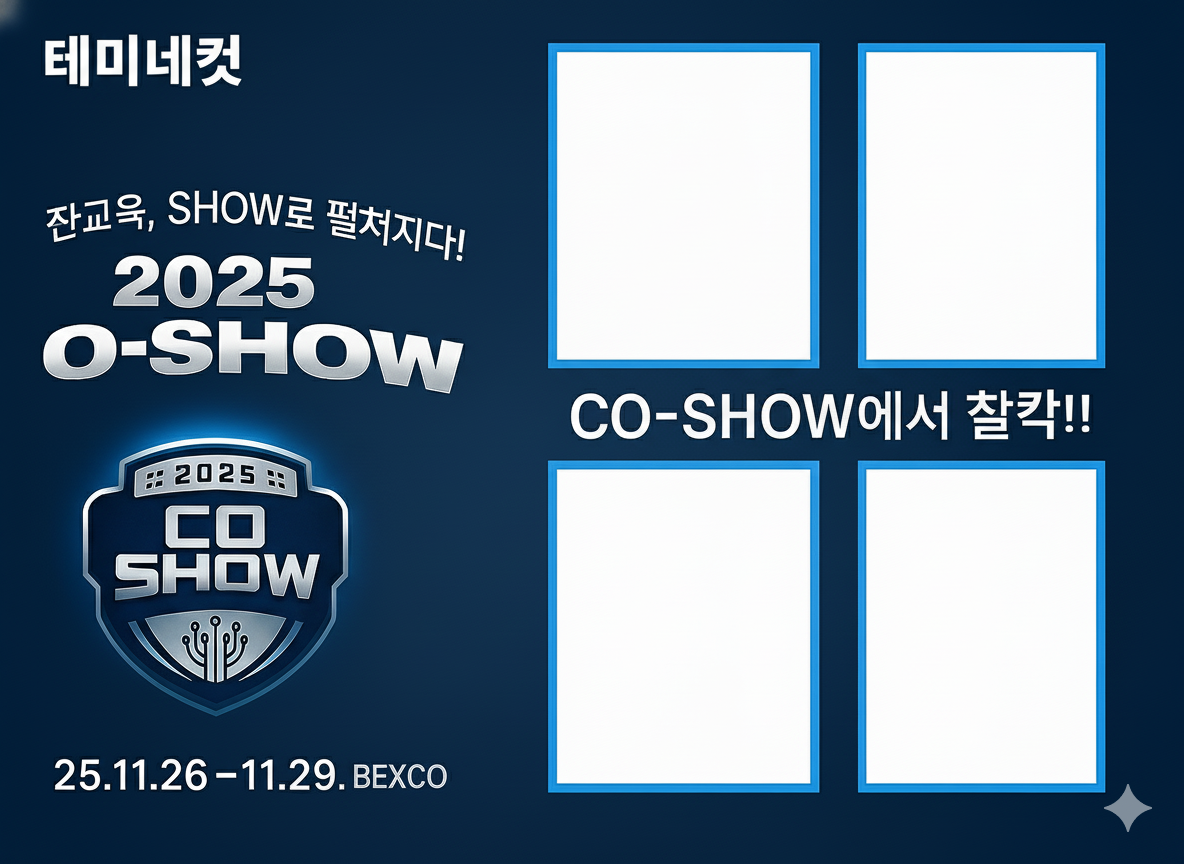
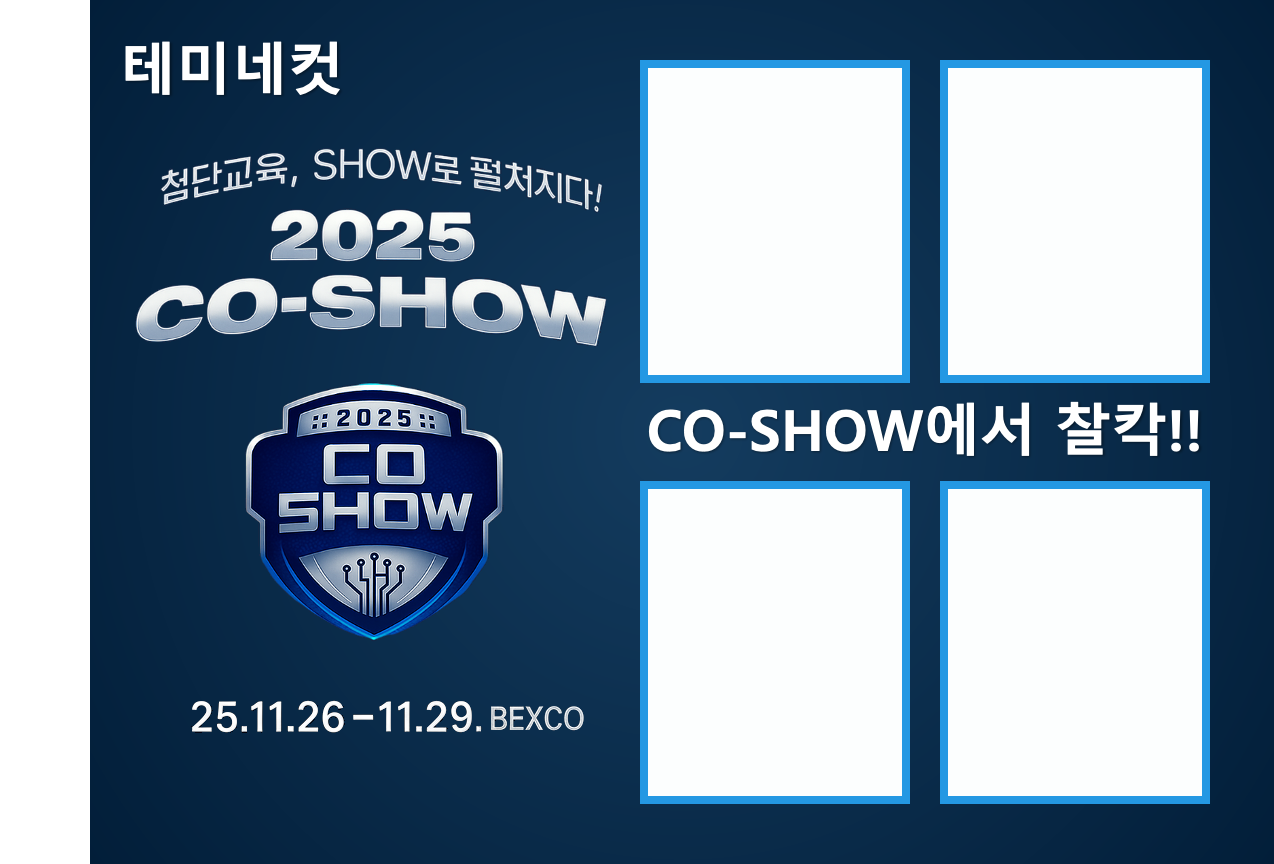
[feat] 테미네컷 테스트

diff --git a/src/pages/PhotoBooth.jsx b/src/pages/PhotoBooth.jsx
@@ -22,6 +22,7 @@ const PhotoBooth = () => {
   const [qrUrl, setQrUrl] = useState("");
   const [theme, setTheme] = useState("basic");
   const [isFinished, setIsFinished] = useState(false);
+
   const canvasRef = useRef(null);
   const cameraRef = useRef(null);
   const [searchParams] = useSearchParams();
@@ -36,6 +37,9 @@ const PhotoBooth = () => {
     mergeWithThemeFrame(capturedPhotos, theme);
   };
 
+  /** ===============================
+   *   사진 병합 함수 (최종본)
+   * =============================== */
   const mergeWithThemeFrame = async (photoArray, themeName) => {
     const canvas = canvasRef.current;
     const ctx = canvas.getContext("2d");
@@ -44,23 +48,30 @@ const PhotoBooth = () => {
     frame.src = frames[themeName] || frames.basic;
 
     frame.onload = async () => {
-      // 템플릿 원본 비율 (1630×1146)
-      const frameWidth = 816;
-      const frameHeight = (1146 / 1630) * frameWidth;
+      // 원본 템플릿 크기
+      const origW = 1630;
+      const origH = 1146;
+
+      // 출력 해상도 업그레이드 (1200px)
+      const frameWidth = 1200;
+      const frameHeight = (origH / origW) * frameWidth;
+
       canvas.width = frameWidth;
       canvas.height = frameHeight;
 
+      // 프레임 그리기
       ctx.drawImage(frame, 0, 0, frameWidth, frameHeight);
 
-      const ratioX = frameWidth / 1630;
-      const ratioY = frameHeight / 1146;
+      // 비율 변환
+      const ratioX = frameWidth / origW;
+      const ratioY = frameHeight / origH;
 
-      // 수정된 최종 좌표
+      // ★ 템플릿 내부 정확한 좌표
       const basePositions = [
-        { x: 875, y: 112, w: 278, h: 357 }, // 좌상
-        { x: 1220, y: 112, w: 278, h: 357 }, // 우상
-        { x: 875, y: 582, w: 278, h: 357 }, // 좌하
-        { x: 1220, y: 582, w: 278, h: 357 }, // 우하
+        { x: 860, y: 110, w: 310, h: 390 }, // 좌상
+        { x: 1210, y: 110, w: 310, h: 390 }, // 우상
+        { x: 860, y: 580, w: 310, h: 390 }, // 좌하
+        { x: 1210, y: 580, w: 310, h: 390 }, // 우하
       ];
 
       const positions = basePositions.map((p) => ({
@@ -70,7 +81,7 @@ const PhotoBooth = () => {
         h: p.h * ratioY,
       }));
 
-      // 각 사진 삽입
+      // ★ 사진 삽입 (cover 방식)
       for (let i = 0; i < Math.min(photoArray.length, 4); i++) {
         const img = new Image();
         img.src = photoArray[i];
@@ -79,10 +90,10 @@ const PhotoBooth = () => {
           img.onload = () => {
             const { x, y, w, h } = positions[i];
 
-            // 비율 유지 + 프레임에 딱 맞게 꽉 채움 (cover 방식)
             const ratio = Math.max(w / img.width, h / img.height);
             const newW = img.width * ratio;
             const newH = img.height * ratio;
+
             const offsetX = x + (w - newW) / 2;
             const offsetY = y + (h - newH) / 2;
 
@@ -98,6 +109,9 @@ const PhotoBooth = () => {
     };
   };
 
+  /** ===============================
+   *  업로드 영역
+   * =============================== */
   const uploadToS3 = async (mergedImage) => {
     try {
       const res = await axios.post(
@@ -110,6 +124,7 @@ const PhotoBooth = () => {
     }
   };
 
+  /** 촬영 시작 */
   const startShooting = () => {
     cameraRef.current.startAutoCapture();
   };
@@ -126,6 +141,7 @@ const PhotoBooth = () => {
             ref={cameraRef}
             onAllPhotosCaptured={handleAllPhotosCaptured}
           />
+
           <button
             onClick={startShooting}
             className="bg-pink-500 text-white px-6 py-3 rounded-xl text-lg shadow-md hover:bg-pink-600 transition"
@@ -137,18 +153,25 @@ const PhotoBooth = () => {
 
       <canvas ref={canvasRef} className="hidden" />
 
+      {/* ==========================
+          결과 화면 (QR → 오른쪽)
+         ========================== */}
       {isFinished && qrUrl && (
-        <div className="flex flex-col items-center gap-3 mt-4">
-          <p className="text-green-600 font-semibold">촬영 및 업로드 완료!</p>
+        <div className="flex flex-row items-start gap-6 mt-4">
+          {/* 결과 사진 */}
           <img
             src={canvasRef.current?.toDataURL()}
             alt="result"
-            className="w-[360px] rounded-lg border"
+            className="w-[420px] rounded-lg border"
           />
-          <QRCode value={qrUrl} size={200} />
-          <p className="text-gray-600 text-sm mt-2">
-            QR코드를 스캔하여 사진을 다운로드하세요.
-          </p>
+
+          {/* QR 영역 */}
+          <div className="flex flex-col items-center">
+            <QRCode value={qrUrl} size={200} />
+            <p className="text-gray-600 text-sm mt-3 text-center">
+              QR코드를 스캔하여 사진을 다운로드하세요.
+            </p>
+          </div>
         </div>
       )}
     </div>

diff --git a/server/index.js b/server/index.js
@@ -11,13 +11,15 @@ import { v4 as uuidv4 } from "uuid";
 const app = express();
 const __dirname = path.dirname(fileURLToPath(import.meta.url));
 
-// ★ Temi WebView Origin 허용 목록
+//  Temi WebView Origin 허용 목록
 const ALLOWED_ORIGINS = [
   "https://appassets.androidplatform.net",
   "http://appassets.androidplatform.net",
+  "http://localhost:5173",
+  "http://127.0.0.1:5173",
 ];
 
-// ★ CORS 직접 처리 (보안 강화)
+//  CORS 직접 처리 (보안 강화)
 app.use((req, res, next) => {
   const origin = req.headers.origin;
 
@@ -39,7 +41,7 @@ app.use((req, res, next) => {
 // JSON Body 처리
 app.use(bodyParser.json({ limit: "50mb" }));
 
-// ★ CSP 보안정책 — Temi WebView 허용 추가
+//  CSP 보안정책 — Temi WebView 허용 추가
 app.use((req, res, next) => {
   res.setHeader(
     "Content-Security-Policy",
